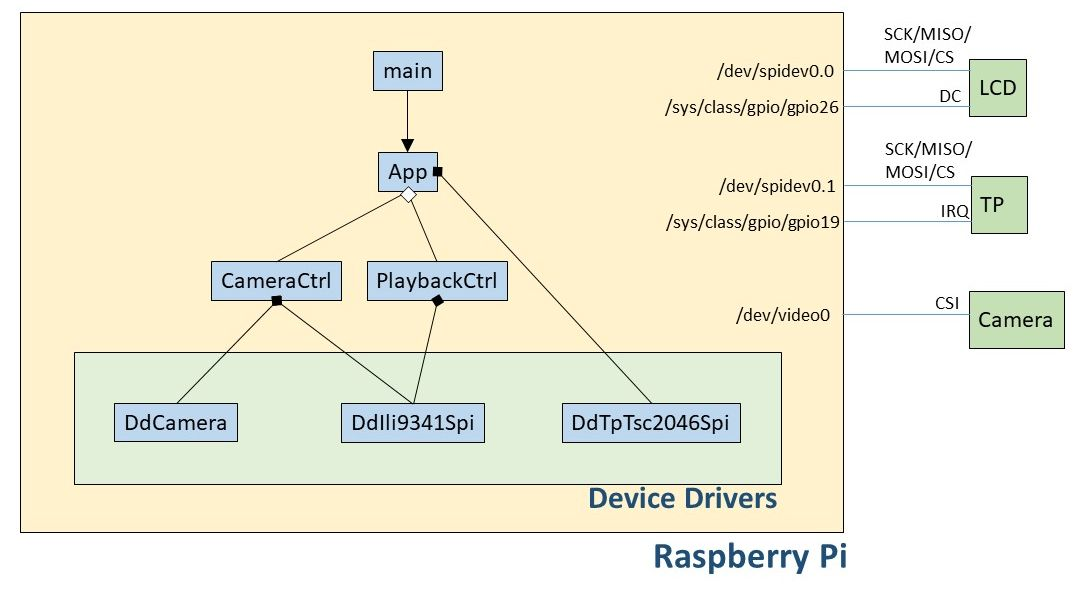
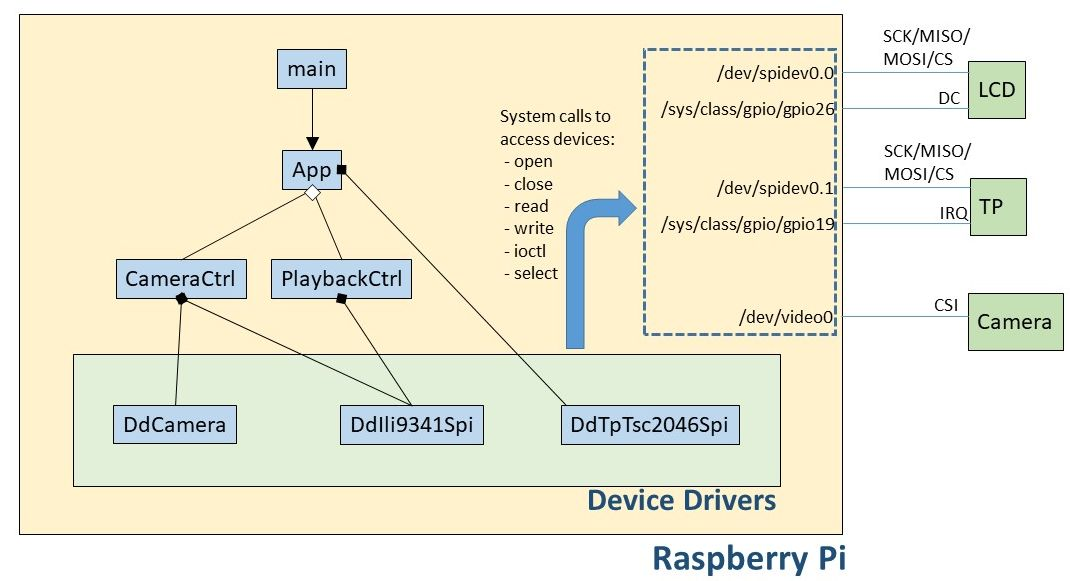
modified readme

diff --git a/README.md b/README.md
@@ -1,7 +1,8 @@
 # Digital Camera with Raspberry Pi in Linux Standard Way
 This is a Raspberry Pi Project to create a digital camere in Linux standard way.  
-Device files and related system calls (open/write/ioctl/select) are used to access devices instead of using external libraries. To access a camera from C++ userland, I used  Video 4 Linux Two (V4L2) API.
+Device files and related system calls (open/write/ioctl/select) are used to access devices instead of using external libraries or OpenCV. To access a camera from C++ userland, I use  Video 4 Linux Two (V4L2) API.
 
+[Link to Youtube Video](https://youtu.be/xP2iDa2bzRc)  
 <img src = "01_doc/pic_all.jpg" width=80%>
 
 <table><tr>
@@ -19,7 +20,7 @@ Device files and related system calls (open/write/ioctl/select) are used to acce
 - Raspberry Pi Zero W
 	- can be work on Pi2/3
 	- OS: 2017-09-07-raspbian-stretch-lite
-- 2.8 inch LCD Module
+- 2.8 inch Display (LCD) Module
 	- 320 x 240
 	- ILI9341 SPI interface
 - Touch Panel (TP)
@@ -30,6 +31,7 @@ Device files and related system calls (open/write/ioctl/select) are used to acce
 
 ## Overview
 <img src = "01_doc/overview.jpg">
+
 Note: LCD(spidev0.0) and TP(spidev0.1) share SCK/MISO/MOSI.
 
 ### Software Modules
@@ -56,6 +58,8 @@ Note: LCD(spidev0.0) and TP(spidev0.1) share SCK/MISO/MOSI.
 	- LCD_MISO: SPI0_MISO
 	- LCD_CS: SPI0_CE0_N 
 	- DC: GPIO 26 (/sys/class/gpio/gpio26)
+	- VDD, LED, RESET: 3.3V
+	- GND: GND
 - TP (SPI0.1 (/dev/spidev0.1))
 	- TP_SCLK: SPI0_SCLK
 	- TP_MOSI: SPI0_MOSI
@@ -84,3 +88,8 @@ Note: LCD(spidev0.0) and TP(spidev0.1) share SCK/MISO/MOSI.
 - Mode change: Tap any corner or edge
 - Playback next picture: Tap around the center during playback mode
 
+## Note for debug
+```
+sudo modprobe bcm2835-v4l2
+v4l2-ctl -d /dev/video0 --list-formats-ext
+```
